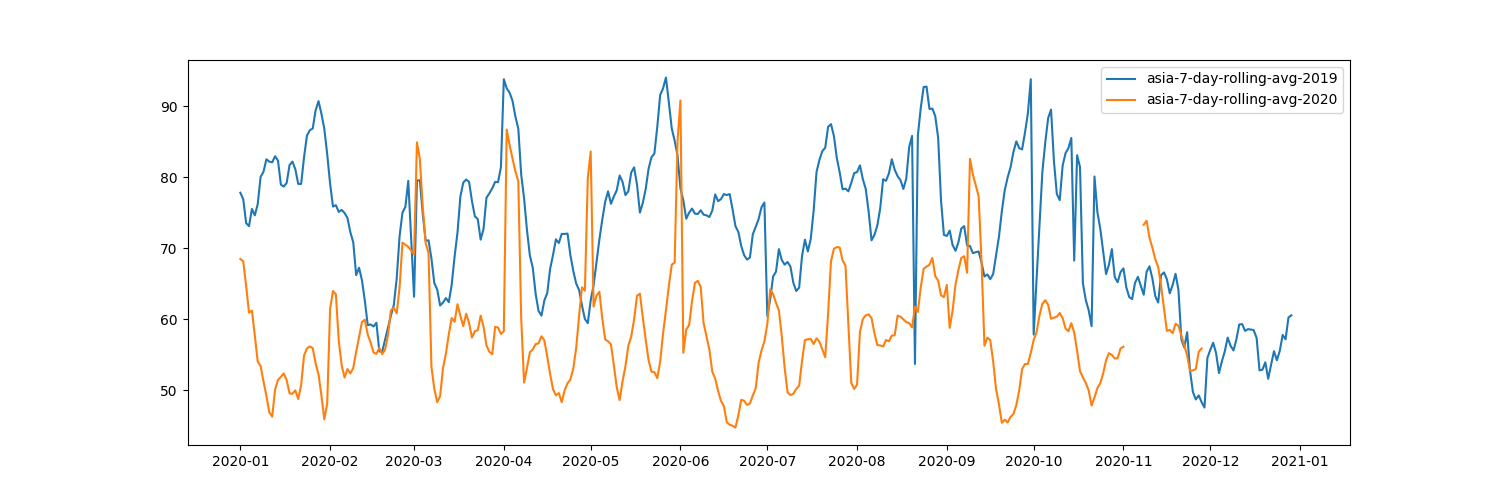
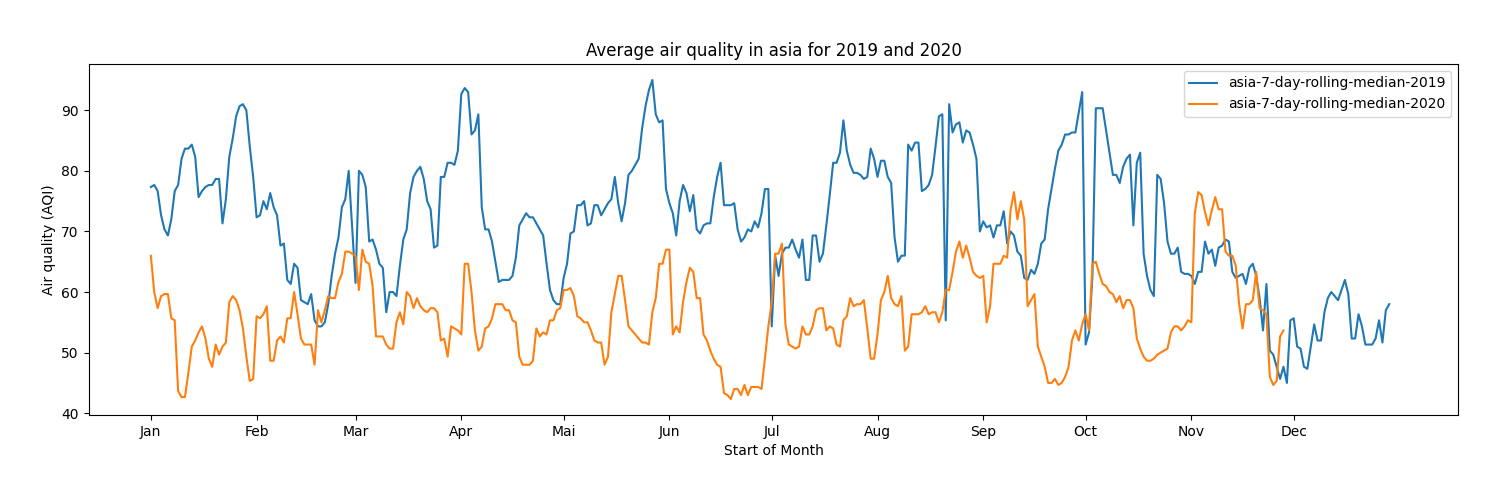
prettier plots and add global average

diff --git a/air_quality/air_quality_parser.py b/air_quality/air_quality_parser.py
@@ -1,3 +1,4 @@
+from pandas.core.frame import DataFrame
 import aqi_converter
 import pandas as pd
 import os
@@ -5,6 +6,7 @@ from typing import Dict, List
 from matplotlib import pyplot as plt
 from matplotlib import dates
 import datetime
+import numpy as np
 from dateutil.relativedelta import relativedelta
 
 
@@ -24,12 +26,14 @@ def parse_file(filepath: str, N_rolling_average=7) -> pd.DataFrame:
         # Drop entries without pm measurements
         df = df.drop(df[df[[' pm25', ' pm10']].count(axis=1) == 0].index)
     else:
+        # Special case for when only pm25 is present
         df = df.drop(df[df[[' pm25']].count(axis=1) == 0].index)
 
     # Calculate aqi
     df['AQI'] = df[data_cols].max(axis=1)
 
-    df['Nday_rolling_AQI'] = df['AQI'].rolling(N_rolling_average).mean()
+    # Calculate rolling windows median
+    df['Nday_rolling_AQI'] = df['AQI'].rolling(window=N_rolling_average, min_periods=1).median()
 
     # Map aqi to bucket values
     df['pollution_level'] = df['AQI'].apply(lambda x: aqi_converter.get_pollution_level(x))
@@ -40,12 +44,14 @@ def parse_file(filepath: str, N_rolling_average=7) -> pd.DataFrame:
     return (fname, df)
 
 def get_dataset_filepaths(parent_dir='waqi_datasets/', subdirs=['asia', 'us', 'eu']) -> Dict[str, List[str]]:
-    """Reads filepaths from subdirs in parent dir and returns dict with {subdir: [files_in_subdir]}."""
+    """ Reads filepaths from subdirs in parent dir and returns dict with {subdir: [files_in_subdir]}."""
 
     return {sdir: list(*os.walk(parent_dir + sdir))[2] for sdir in subdirs}
 
 
 def get_comparative_dataframe(filepath: str, N_rolling_average=7) -> pd.DataFrame:
+    """reads dataframe from file and pivots data to be columns with a years data"""
+
     fname, df = parse_file(filepath, N_rolling_average)
 
     # Pivot table to group table columns by year
@@ -57,43 +63,96 @@ def get_comparative_dataframe(filepath: str, N_rolling_average=7) -> pd.DataFram
     # Convert from ordinal(1-365) dates to regular date values
     df1.index = df1.index.map(datetime.date.fromordinal).map(lambda x: x + relativedelta(years=2019))
 
+    # Rename all column to include cityname in label 
     df1.columns = [fname + '-' + str(colname) for colname in df1.columns]
 
     return df1
+
 
 def parse_all_datasets(parent_dir='waqi_datasets/', N_rolling_average=7):
 
     datasets = get_dataset_filepaths()
     r = {}
 
+    # Reads all files and maps the comparative dataframes to their region
     for continent, cities in datasets.items():
-        r[continent] = [get_comparative_dataframe(parent_dir + continent + '/' + city, N_rolling_average) for city in cities]
+        r[continent] = [get_comparative_dataframe(
+            parent_dir + continent + '/' + city, N_rolling_average) for city in cities]
 
     return r
 
 
-def combined_region_dfs(N_rolling_average=7):
+def combined_region_dfs(N_rolling_average=7) -> Dict[str, DataFrame]:
+    """ For all regions will return dataframe with 2019 and 2020 data for all cities in region and combined mean
+        Returns dict{'us|eu|asia': dataframe}
+    """
+
     dfmap = parse_all_datasets(N_rolling_average=N_rolling_average)
 
-    regionlist = {}
+    region_dict = {}
 
     for region, dflist in dfmap.items():
         combined_df = pd.concat(dflist, axis=1, sort=False)
 
+        # Gets list of columns with data for 2019 and 2020
         cols2019 = [colname for colname in combined_df if '2019' in colname]
         cols2020 = [colname for colname in combined_df if '2020' in colname]
 
+        # Calculates mean of 2019 and 2020 related columns into separate columns
         combined_df[region + '-mean-2019'] = combined_df[cols2019].mean(axis=1)
         combined_df[region + '-mean-2020'] = combined_df[cols2020].mean(axis=1)
 
-        regionlist[region] = combined_df
+        # insert finished dataframe into return object
+        region_dict[region] = combined_df
 
-    return regionlist
+    return region_dict
+
+
+def combine_all_regions(path='', plot=True, save=True, N_rolling_average=7):
+    dfs = combined_region_dfs(N_rolling_average)
+
+    global_df = pd.concat(dfs.values(), axis=1, sort=False)
+
+    # Get get data from all values 
+    cols2019 = [colname for colname in global_df if '2019' in colname and 'mean' not in colname]
+    cols2020 = [colname for colname in global_df if '2020' in colname and 'mean' not in colname]
+
+    # Calculates mean of 2019 and 2020 related columns into separate columns
+    global_df['global-mean-2019'] = global_df[cols2019].mean(axis=1)
+    global_df['global-mean-2020'] = global_df[cols2020].mean(axis=1)
+
+    print(global_df[['global-mean-2019', 'global-mean-2020']])
+    fig = plt.figure()
+    ax = plt.gca()
+
+    global_df.plot(kind='line', y=['global-mean-2019', 'global-mean-2020'], ax=ax)
+
+    ax.xaxis.set_major_locator(dates.MonthLocator(interval=1))
+
+    months = ["Jan", "Feb", "Mar", "Apr", "Mai", "Jun",
+              "Jul", "Aug", "Sep", "Oct", "Nov", "Dec"]
+    ax.set_xticks(ax.get_xticks().tolist()[:-1])
+    ax.set_xticklabels(months)
+
+    fig.set_figheight(5)
+    fig.set_figwidth(15)
+
+    fig.tight_layout(pad=3.0)
+
+    plt.xlabel('Start of Month')
+    plt.ylabel('Air quality (AQI)')
+    plt.title('Average global air quality for 2019 and 2020')
+
+    if save:
+        plt.savefig(path+'global_average_rolling7.png')
+    if plot:
+        plt.show()
+
 
 def plot_regions(path='', plot=True, save=False, N_rolling_average=7):
     dfs = combined_region_dfs(N_rolling_average)
 
-    def get_label(region, year): return region + '-' + str(N_rolling_average) + '-day-rolling-avg-' + str(year)
+    def get_label(region, year): return region + '-' + str(N_rolling_average) + '-day-rolling-median-' + str(year)
 
     for region, df in dfs.items():
         fig = plt.figure()
@@ -104,8 +163,19 @@ def plot_regions(path='', plot=True, save=False, N_rolling_average=7):
         df.plot(kind='line', y=lines, ax=ax, label=labels)
 
         ax.xaxis.set_major_locator(dates.MonthLocator(interval=1))
+
+        months = ["Jan", "Feb", "Mar", "Apr", "Mai", "Jun",
+                  "Jul", "Aug", "Sep", "Oct", "Nov", "Dec"]
+        ax.set_xticks(ax.get_xticks().tolist()[:-1])
+        ax.set_xticklabels(months)
+
+        plt.xlabel('Start of Month')
+        plt.ylabel('Air quality (AQI)')
+        plt.title('Average air quality in ' + region + ' for 2019 and 2020')
+
         fig.set_figheight(5)
         fig.set_figwidth(15)
+        fig.tight_layout(pad=3.0)
         if save:
             plt.savefig(path+region+'_'+str(N_rolling_average)+'day_rolling_average'+'.png')
         if plot:
@@ -113,6 +183,6 @@ def plot_regions(path='', plot=True, save=False, N_rolling_average=7):
 
 
 if __name__ == "__main__":
-    plot_regions(path='../figures/',plot=False, save=True, N_rolling_average=7)
-    plot_regions(path='../figures/',plot=False, save=True, N_rolling_average=30)
-
+    combine_all_regions(path='../figures/', plot=False, save=True, N_rolling_average=7)
+    plot_regions(path='../figures/', plot=False, save=True, N_rolling_average=7)
+    plot_regions(path='../figures/', plot=False, save=True, N_rolling_average=30)
